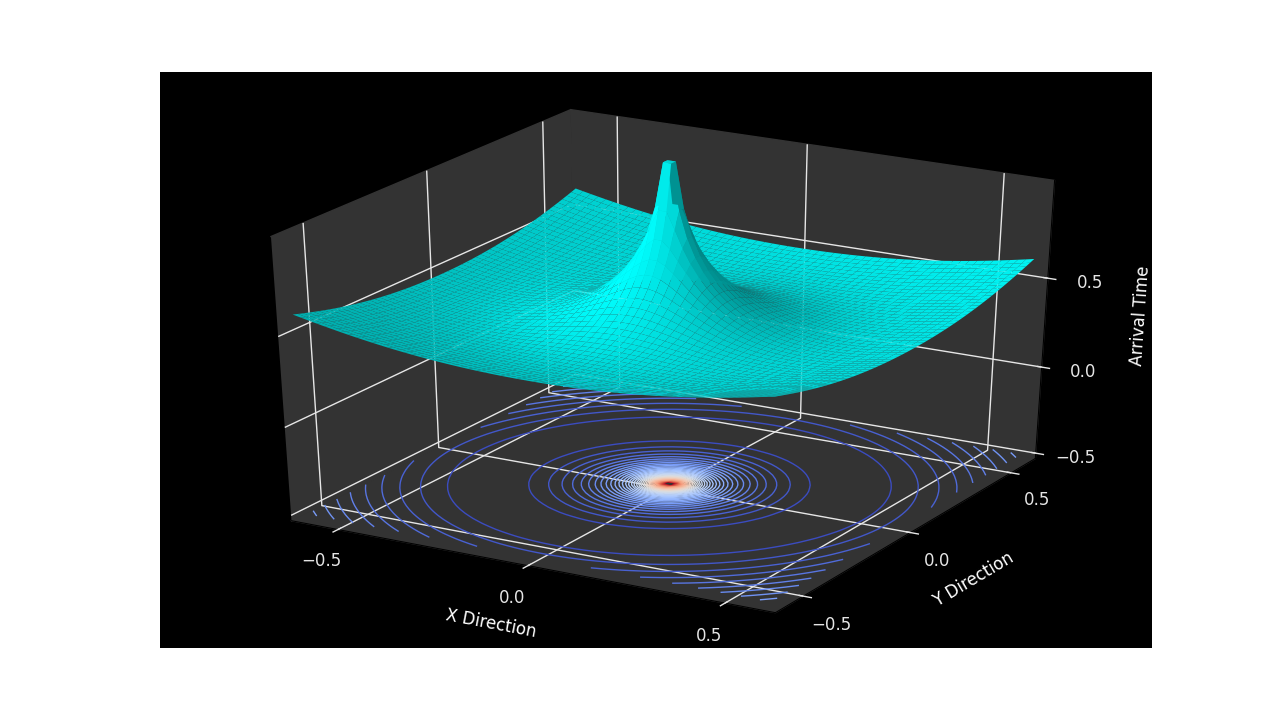
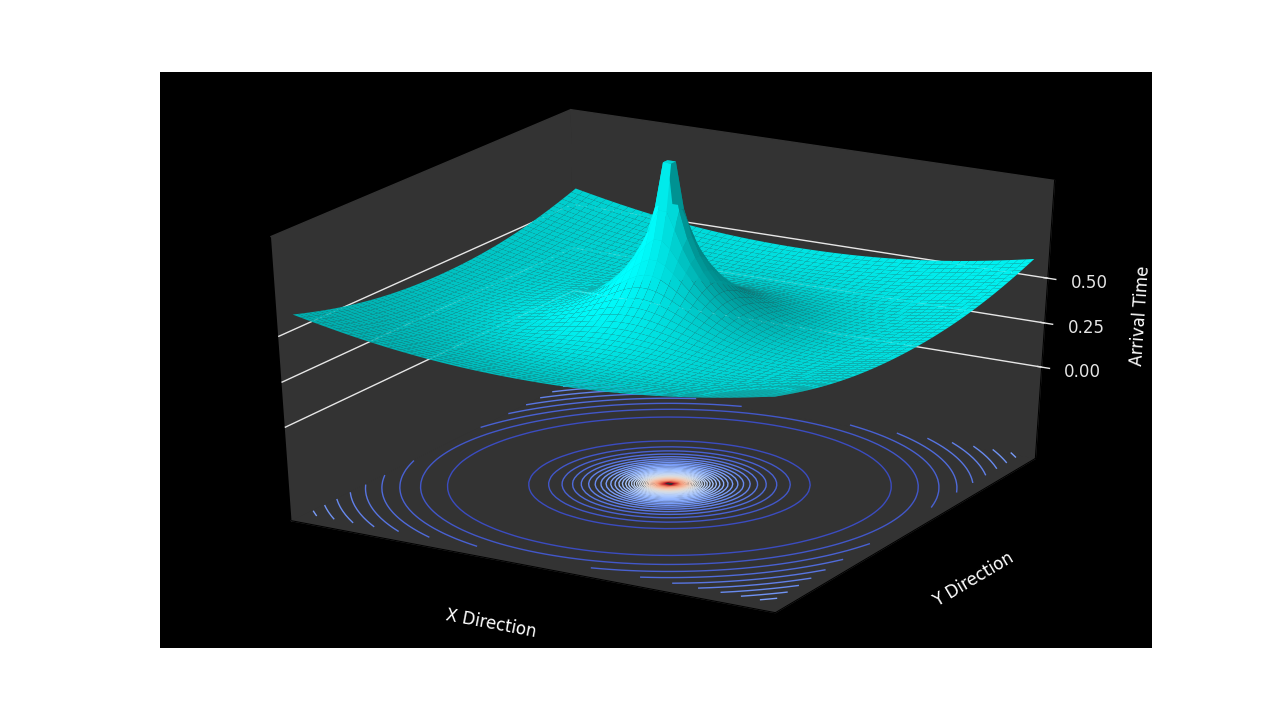
last minute changes

diff --git a/static_html/js/lmt.ui.html.js b/static_html/js/lmt.ui.html.js
@@ -708,7 +708,7 @@ html.GlassSettingsDialog = {
     $("#gset_pixrad_out").html("(" + $("#gset_pixrad_slide").slider( "value") + ")");
     $("#gset_nmodels_out").html("(" + $("#gset_nmodels_slide").slider( "value") + ")");
    
-    $("#gset_issymm").button("option", "label", "No");
+    $("#gset_issymm").button("option", "label", "Yes");
     
    
     $("#glass_dialog").removeClass("initHidden");

diff --git a/docs/tuto-scripts/topo_rk.py b/docs/tuto-scripts/topo_rk.py
@@ -40,9 +40,13 @@ for i in doplot:
   ax.patch.set_facecolor('black')
 
   ticks = [-0.5,0,0.5]
+  ticks = []
+  zticks = [0,0.25,0.5]
+  zticks = []
+  
   ax.xaxis.set_ticks(ticks)
   ax.yaxis.set_ticks(ticks)
-  ax.zaxis.set_ticks(ticks)
+  ax.zaxis.set_ticks(zticks)
 
   col2 = (0.9,)*3
   ax.tick_params(axis='x', colors=col2)
@@ -71,6 +75,6 @@ for i in doplot:
 
   ax.set_zlim(zmin, zmax)
   #fig.colorbar(surf, shrink=0.5, aspect=5)
-  #show()
-  savefig('fig'+str(i)+'.png', dpi=100)
+  show()
+  #savefig('fig'+str(i)+'.png', dpi=100)
 
